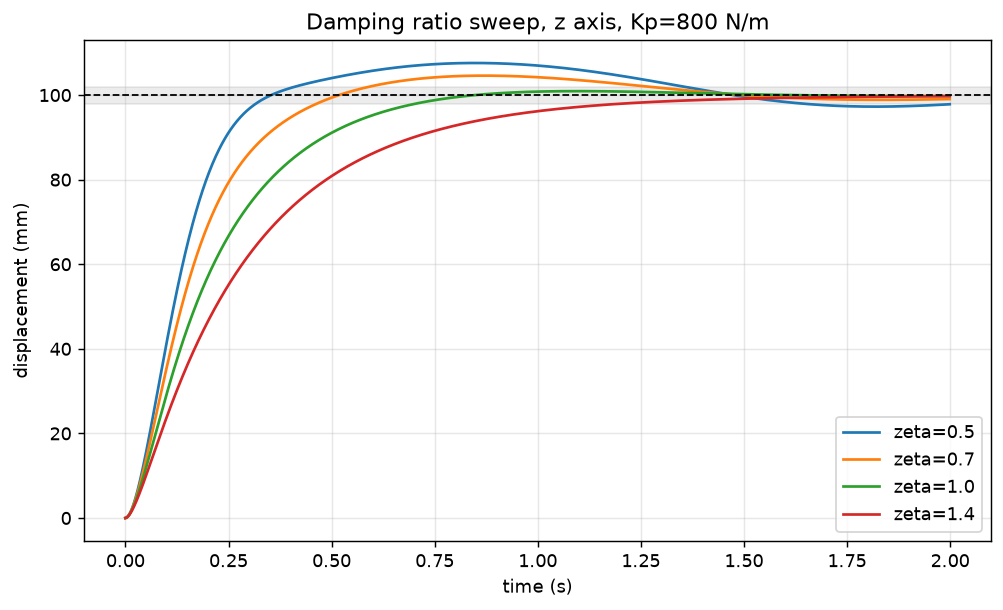
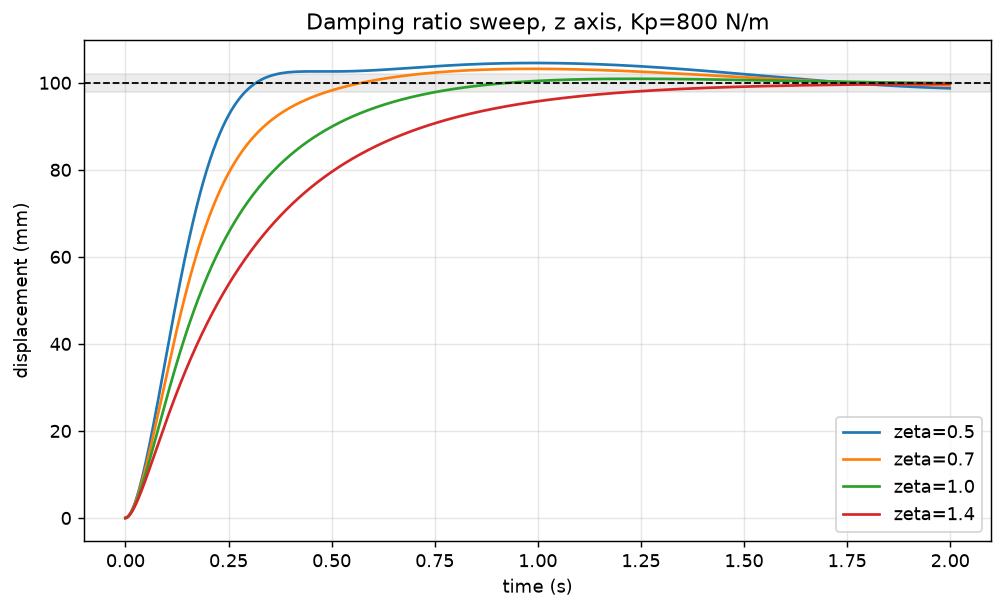
Restructure as installable package; re-characterise gains on the full scene

diff --git a/src/scripts/tune_step.py b/src/scripts/tune_step.py
@@ -23,10 +23,10 @@ import matplotlib.pyplot as plt
 import mujoco
 import numpy as np
 
-from src.config import LOG_DIR, MODEL_PATH
+from src.config import LOG_DIR, SCENE_PATH
 from src.controllers.impedance import ImpedanceController
 
-MODEL_PATH = MODEL_PATH
+MODEL_PATH = str(SCENE_PATH)
 LOG_DIR = LOG_DIR
 
 AXIS_NAMES = ["x", "y", "z"]
